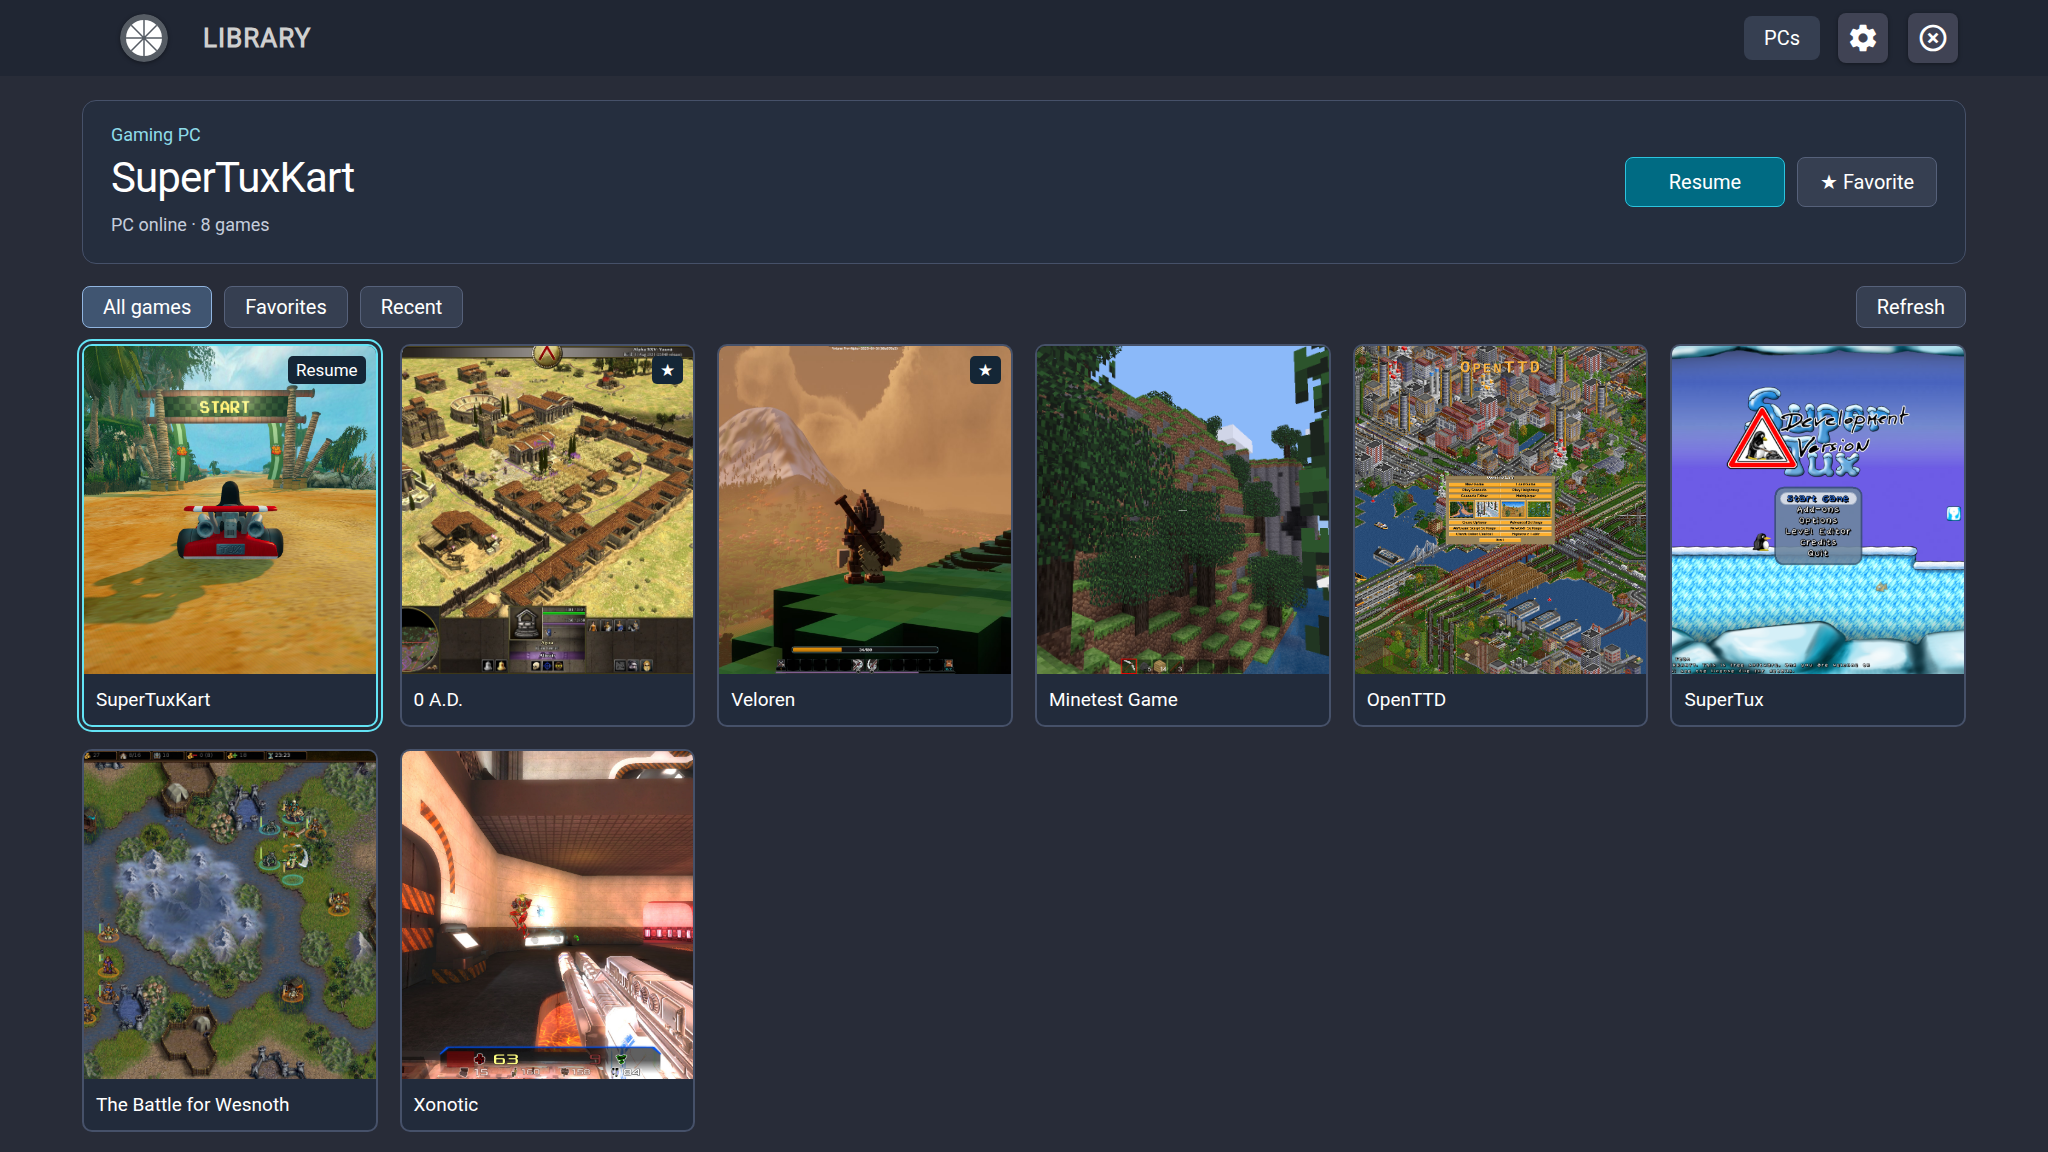
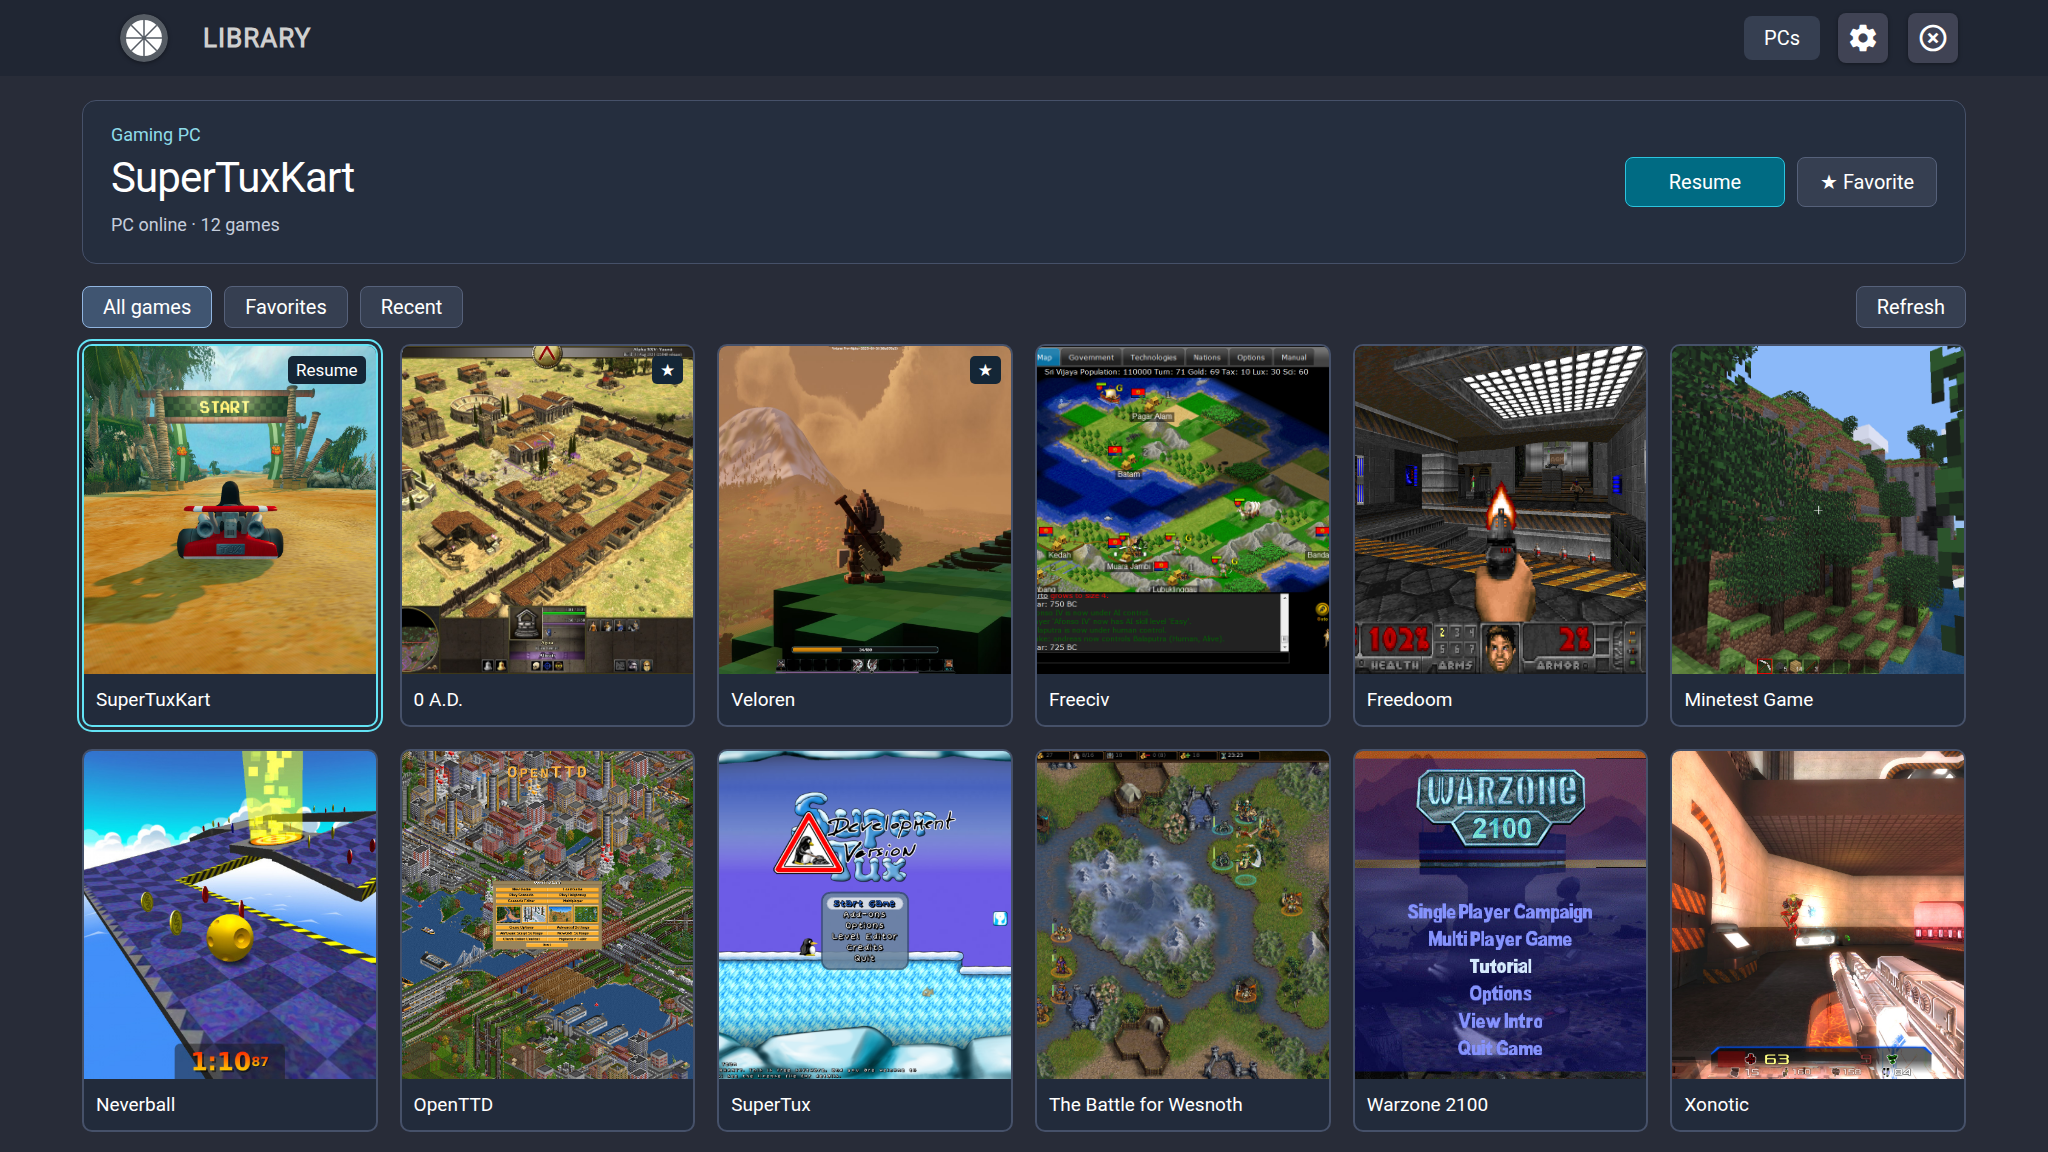
Preserve item 1 with twelve-game screenshots before adding the quick start

diff --git a/docs/images/ATTRIBUTION.md b/docs/images/ATTRIBUTION.md
@@ -1,13 +1,14 @@
 # Documentation image credits
 
-The README library uses real screenshots of eight open-source games in a
+The README library uses real screenshots of twelve open-source games in a
 synthetic PC library. It does not claim that these games were tested on a TV,
 and no game developer endorses this fork.
 
 The original image files are retained without pixel changes in `open-games/`.
 The application's existing `object-fit: cover` scales and crops their visible
-area in `game-library.png`; favorites, selection and Resume are demonstration
-state. `settings.png` contains only this application's interface.
+area in `game-library.png` and `game-library-wake.png`; favorites, selection,
+online Resume and offline Wake & play are demonstration states.
+`settings.png` contains only this application's interface.
 
 ## Source images
 
@@ -21,10 +22,14 @@ state. `settings.png` contains only this application's interface.
 | `open-games/supertux.png` | SuperTux — SuperTux Development Team | [SuperTux 0.5.1 screenshot (main page).png](https://commons.wikimedia.org/wiki/File:SuperTux_0.5.1_screenshot_%28main_page%29.png) · [GPL-2.0-or-later](https://www.gnu.org/licenses/old-licenses/gpl-2.0.html) |
 | `open-games/wesnoth.jpg` | The Battle for Wesnoth — Battle for Wesnoth developers | [Battle for wesnoth version 1.12.0 screenshot.jpg](https://commons.wikimedia.org/wiki/File:Battle_for_wesnoth_version_1.12.0_screenshot.jpg) · [GPL-2.0-or-later](https://www.gnu.org/licenses/old-licenses/gpl-2.0.html) |
 | `open-games/openttd.png` | OpenTTD with OpenGFX — OpenTTD and OpenGFX contributors; screenshot uploaded by Msaynevirta | [OpenTTD-1.3.3-en.png](https://commons.wikimedia.org/wiki/File:OpenTTD-1.3.3-en.png) · [GPL-2.0-or-later](https://www.gnu.org/licenses/old-licenses/gpl-2.0.html) |
+| `open-games/warzone2100.jpg` | Warzone 2100 — Pumpkin Studios, Pivotal Games, Eidos Interactive; screenshot uploaded by Bayo | [Warzone 2100 - main.jpg](https://commons.wikimedia.org/wiki/File:Warzone_2100_-_main.jpg) · [GPL-2.0-or-later](https://www.gnu.org/licenses/old-licenses/gpl-2.0.html) |
+| `open-games/freeciv.png` | Freeciv.net — screenshot by Andreas Rosdal; browser frame cropped by PaterMcFly | [Freeciv-net-screenshot-2010-02-14.png](https://commons.wikimedia.org/wiki/File:Freeciv-net-screenshot-2010-02-14.png) · [CC BY 3.0](https://creativecommons.org/licenses/by/3.0/) |
+| `open-games/freedoom.png` | Freedoom developers; screenshot uploaded by Drummyfish | [Freedoom 2018.png](https://commons.wikimedia.org/wiki/File:Freedoom_2018.png) · BSD 3-Clause; [copyright notice, terms and disclaimer](open-games/FREEDOOM-COPYING.adoc) retained from [the Freedoom project](https://github.com/freedoom/freedoom/blob/master/COPYING.adoc) |
+| `open-games/neverball.jpg` | Neverball authors; screenshot uploaded by Drummyfish | [Neverball 1.6.0.jpg](https://commons.wikimedia.org/wiki/File:Neverball_1.6.0.jpg) · [GPL-2.0-or-later](https://www.gnu.org/licenses/old-licenses/gpl-2.0.html) |
 
 ## Composite capture
 
-`game-library.png` is distributed under [GPL-3.0](../../LICENSE), matching the
+`game-library.png` and `game-library-wake.png` are distributed under [GPL-3.0](../../LICENSE), matching the
 application UI. The unchanged source images retain the licenses above.
 For the cropped CC BY-SA 3.0 material incorporated into the composite, the
 adaptation uses CC BY-SA 4.0 and its one-way GPLv3 compatibility. See
@@ -41,7 +46,11 @@ the application's HTML/CSS/JavaScript in `wasm/`. Original game source projects:
 [SuperTux](https://github.com/SuperTux/supertux),
 [Wesnoth](https://github.com/wesnoth/wesnoth),
 [OpenTTD](https://github.com/OpenTTD/OpenTTD),
-[OpenGFX](https://github.com/OpenTTD/OpenGFX).
+[OpenGFX](https://github.com/OpenTTD/OpenGFX),
+[Warzone 2100](https://github.com/Warzone2100/warzone2100),
+[Freeciv](https://github.com/freeciv/freeciv),
+[Freedoom](https://github.com/freedoom/freedoom),
+[Neverball](https://github.com/Neverball/neverball).
 
 Licensing pages checked on 2026-10-02. These are openly licensed images,
 not a claim that the games or every element of their artwork are copyright-free.

diff --git a/README.md b/README.md
@@ -4,7 +4,14 @@ A fork of [brightcraft/moonlight-tizen](https://github.com/brightcraft/moonlight
 
 ## Interface
 
-![Game library with eight open-source games, favorites and the Resume action](docs/images/game-library.png)
+![Game library with twelve open-source games, favorites and the Resume action](docs/images/game-library.png)
+
+<details>
+<summary>PC offline — Wake & play</summary>
+
+![Cached game library with twelve games and Wake & play available while the PC is offline](docs/images/game-library-wake.png)
+
+</details>
 
 <details>
 <summary>Basic settings</summary>
@@ -14,10 +21,10 @@ A fork of [brightcraft/moonlight-tizen](https://github.com/brightcraft/moonlight
 </details>
 
 Application UI rendered locally with the original application layout, a
-demonstration PC and eight real open-source games. Game images are reused under
-their published open licenses;
-see [image credits and licenses](docs/images/ATTRIBUTION.md). The Resume state is
-simulated; these captures demonstrate the interface, not gameplay on a TV.
+demonstration PC and twelve real open-source games. Game images are reused under
+their published open licenses; see [image credits and licenses](docs/images/ATTRIBUTION.md).
+The online Resume and offline Wake & play states are simulated; these captures
+demonstrate the interface, not gameplay or a Wake-on-LAN test on a TV.
 
 ## Why this fork
 
